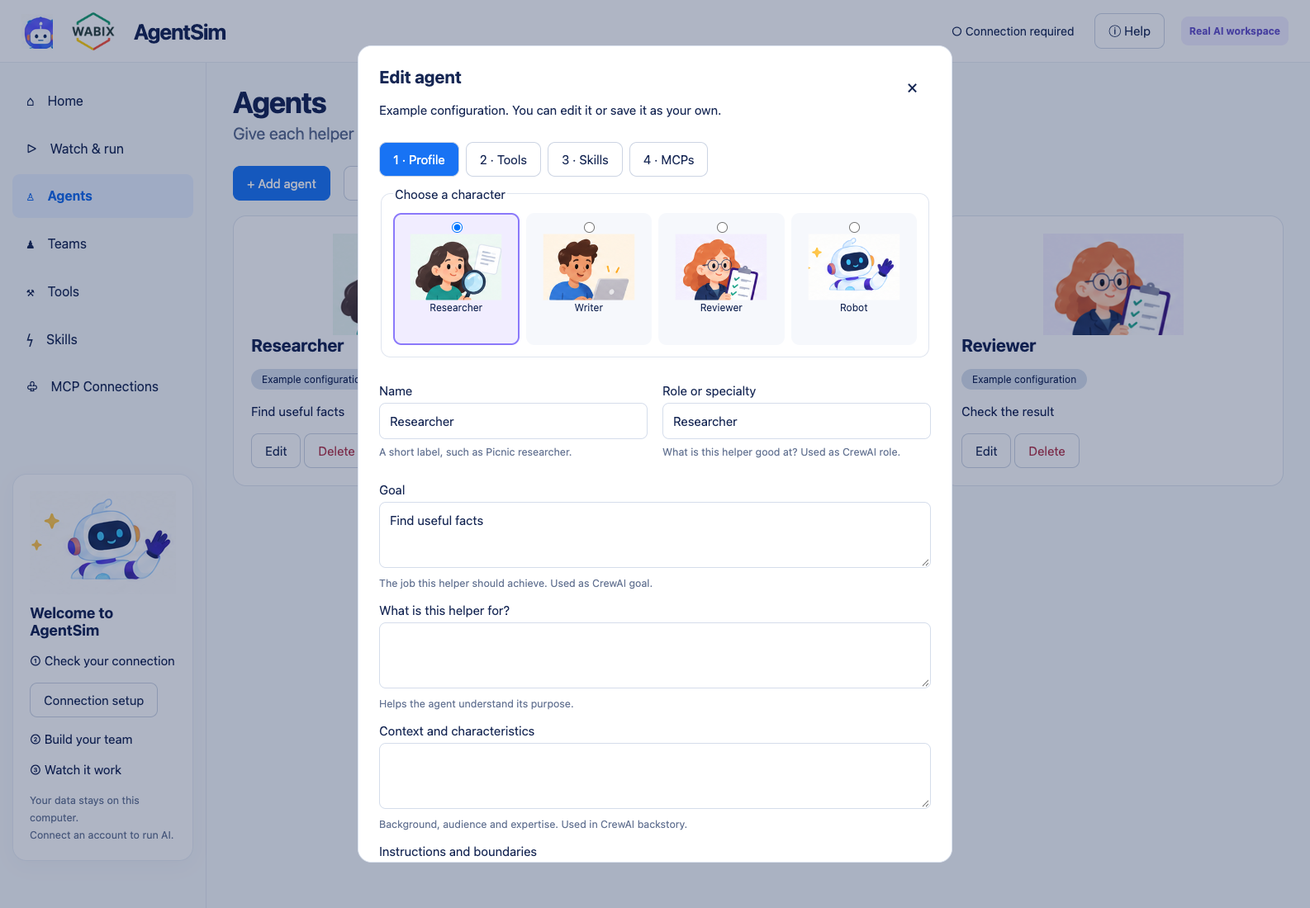
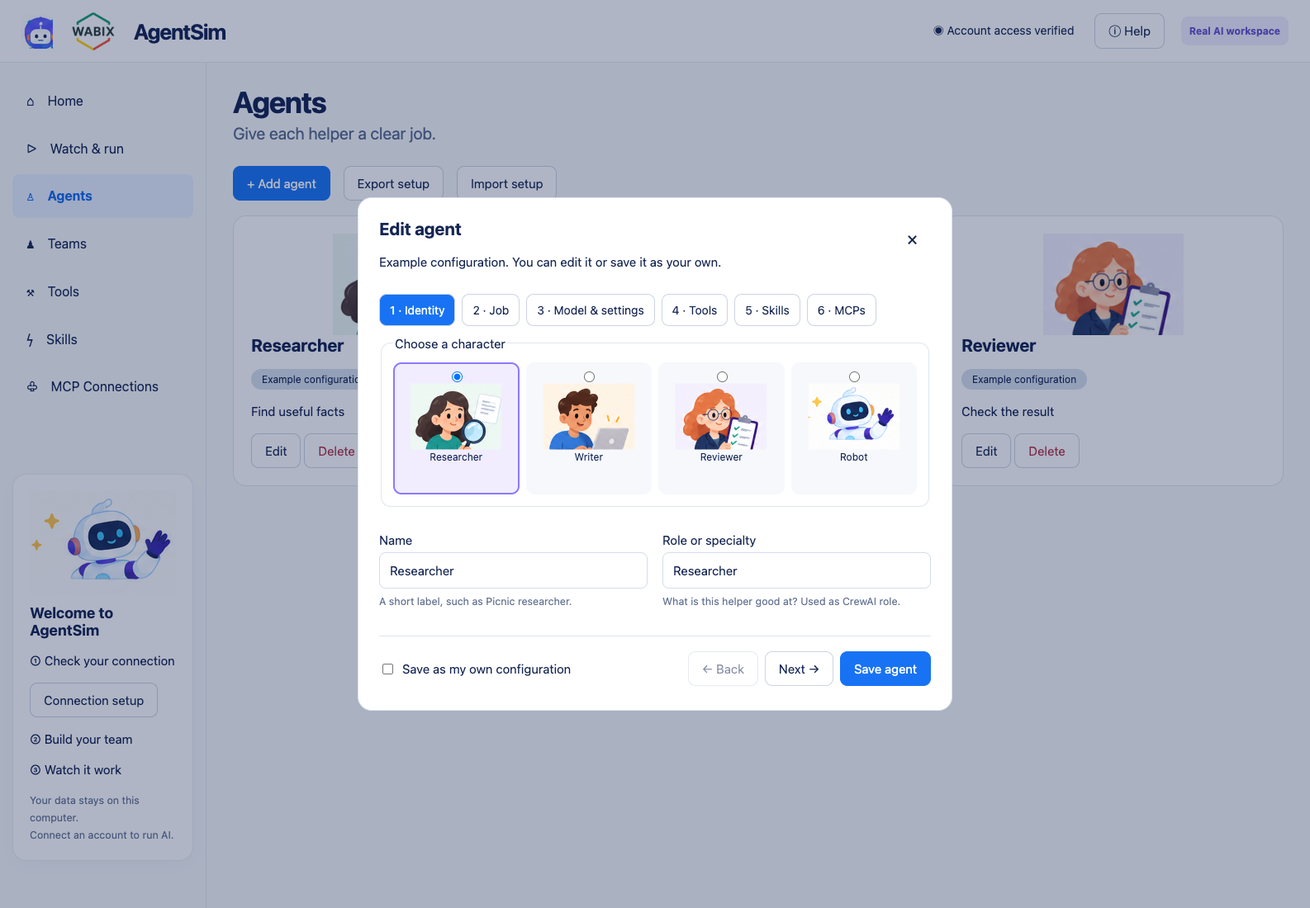
Split agent profile into guided steps and load available models in a dropdown

diff --git a/static/app.js b/static/app.js
@@ -379,10 +379,12 @@ function agentEditor(id) {
     `<label class="field">${label}${multi ? `<textarea aria-label="${label}" name="${name}" rows="3">${esc(a[name])}</textarea>` : `<input aria-label="${label}" name="${name}" value="${esc(a[name])}">`}${help ? `<small>${help}</small>` : ""}</label>`;
   modal(
     `<h2>${id ? "Edit" : "Create"} agent</h2><p>${a.example ? "Example configuration. You can edit it or save it as your own." : "Give this helper a clear identity, job and boundaries."}</p><div class="editor-tabs" role="tablist">${[
-      ["profile", "1 · Profile"],
-      ["tools", "2 · Tools"],
-      ["skills", "3 · Skills"],
-      ["mcps", "4 · MCPs"],
+      ["profile", "1 · Identity"],
+      ["job", "2 · Job"],
+      ["settings", "3 · Model & settings"],
+      ["tools", "4 · Tools"],
+      ["skills", "5 · Skills"],
+      ["mcps", "6 · MCPs"],
     ]
       .map(
         ([key, label], i) =>
@@ -390,7 +392,7 @@ function agentEditor(id) {
       )
       .join(
         "",
-      )}</div><form id="agentForm" novalidate><section id="panel-profile" role="tabpanel" aria-labelledby="tab-profile"><fieldset class="avatar-choices"><legend>Choose a character</legend>${["researcher", "writer", "reviewer", "robot"].map((v) => `<label class="avatar-choice"><input type="radio" name="avatar" value="${v}" ${(a.avatar || "robot") === v ? "checked" : ""}><span class="avatar ${avatarClass(v)}" aria-hidden="true"></span><span>${v[0].toUpperCase() + v.slice(1)}</span></label>`).join("")}</fieldset><div class="form-grid">${field("name", "Name", "A short label, such as Picnic researcher.")}${field("role", "Role or specialty", "What is this helper good at? Used as CrewAI role.")}</div>${field("goal", "Goal", "The job this helper should achieve. Used as CrewAI goal.", true)}${field("purpose", "What is this helper for?", "Helps the agent understand its purpose.", true)}${field("backstory", "Context and characteristics", "Background, audience and expertise. Used in CrewAI backstory.", true)}${field("instructions", "Instructions and boundaries", "How should it work? Be concrete. These instructions are sent with its task.", true)}${field("expectedOutput", "Expected result", "Describe the answer you want. Used as the task expected output.", true)}<section class="panel"><h3>This agent's model</h3><label class="field">Connection<select name="agentConnection" id="agentConnection"><option value="chatgpt">ChatGPT · own authorized account</option><option value="api">API · own saved provider credentials</option></select></label><label class="field">Model name<input name="modelName" value="${esc(a.model.name)}" placeholder="Choose a model for this helper"></label><button type="button" id="agentModels">Load models for this connection</button><div id="agentModelList"></div><small>Each helper keeps its own model. A blank model is allowed in a saved draft, but real execution will ask you to select one.</small></section><details><summary>Teaching examples</summary><p>Examples show a style. They are clearly marked as examples, not the current goal or verified facts.</p>${field("exampleInput", "Example input", "", true)}${field("exampleOutput", "Example answer", "", true)}</details><details><summary>Advanced: model and behavior</summary><p>Optional model parameters are sent only when set. Model selection belongs to this agent.</p><div class="form-grid"><label class="field">Temperature (optional)<input type="number" step="0.1" min="0" max="2" name="temperature" value="${a.model.temperature ?? ""}"><small>Blank leaves the provider default. Some models reject temperature; a failed request is shown, never silently changed.</small></label><label class="field">Output token limit (optional)<input type="number" min="16" max="16000" name="maxOutputTokens" value="${a.model.maxOutputTokens ?? ""}"><small>Sent as max_output_tokens only when set. Check your model's supported limits.</small></label><label class="field">CrewAI context budget<input type="number" name="contextWindow" min="4096" max="2000000" value="${a.model.contextWindow ?? 32000}"><small>Used by CrewAI to manage long conversations. Set it to your model's actual capacity; this does not enlarge the model.</small></label>${[
+      )}</div><form id="agentForm" novalidate><section id="panel-profile" role="tabpanel" aria-labelledby="tab-profile"><fieldset class="avatar-choices"><legend>Choose a character</legend>${["researcher", "writer", "reviewer", "robot"].map((v) => `<label class="avatar-choice"><input type="radio" name="avatar" value="${v}" ${(a.avatar || "robot") === v ? "checked" : ""}><span class="avatar ${avatarClass(v)}" aria-hidden="true"></span><span>${v[0].toUpperCase() + v.slice(1)}</span></label>`).join("")}</fieldset><div class="form-grid">${field("name", "Name", "A short label, such as Picnic researcher.")}${field("role", "Role or specialty", "What is this helper good at? Used as CrewAI role.")}</div></section><section id="panel-job" role="tabpanel" aria-labelledby="tab-job" hidden><h3>What should this helper do?</h3>${field("goal", "Goal", "The job this helper should achieve. Used as CrewAI goal.", true)}${field("purpose", "What is this helper for?", "Helps the agent understand its purpose.", true)}${field("backstory", "Context and characteristics", "Background, audience and expertise. Used in CrewAI backstory.", true)}${field("instructions", "Instructions and boundaries", "How should it work? Be concrete. These instructions are sent with its task.", true)}${field("expectedOutput", "Expected result", "Describe the answer you want. Used as the task expected output.", true)}</section><section id="panel-settings" role="tabpanel" aria-labelledby="tab-settings" hidden><section class="panel"><h3>This agent's model</h3><label class="field">Connection<select name="agentConnection" id="agentConnection"><option value="chatgpt">ChatGPT · own authorized account</option><option value="api">API · own saved provider credentials</option></select></label><label class="field">Model<select name="modelName" id="agentModel" aria-describedby="agentModelStatus"><option value="">Choose an available model</option>${a.model.name ? `<option value="${esc(a.model.name)}" selected>${esc(a.model.name)} · saved, availability not checked</option>` : ""}</select></label><p id="agentModelStatus" class="muted" role="status" aria-live="polite">Models load from this agent's connection when you open this step.</p><button type="button" id="agentModels">Refresh models</button><small class="model-hint">Each helper keeps its own model. A blank model is allowed in a saved draft, but real execution will ask you to select one.</small></section><details><summary>Teaching examples</summary><p>Examples show a style. They are clearly marked as examples, not the current goal or verified facts.</p>${field("exampleInput", "Example input", "", true)}${field("exampleOutput", "Example answer", "", true)}</details><details><summary>Advanced: model and behavior</summary><p>Optional model parameters are sent only when set. Model selection belongs to this agent.</p><div class="form-grid"><label class="field">Temperature (optional)<input type="number" step="0.1" min="0" max="2" name="temperature" value="${a.model.temperature ?? ""}"><small>Blank leaves the provider default. Some models reject temperature; a failed request is shown, never silently changed.</small></label><label class="field">Output token limit (optional)<input type="number" min="16" max="16000" name="maxOutputTokens" value="${a.model.maxOutputTokens ?? ""}"><small>Sent as max_output_tokens only when set. Check your model's supported limits.</small></label><label class="field">CrewAI context budget<input type="number" name="contextWindow" min="4096" max="2000000" value="${a.model.contextWindow ?? 32000}"><small>Used by CrewAI to manage long conversations. Set it to your model's actual capacity; this does not enlarge the model.</small></label>${[
       [
         "maxIterations",
         "Maximum work cycles",
@@ -448,53 +450,126 @@ function agentEditor(id) {
       )
       .join(
         "",
-      )}</section><div class="editor-footer">${a.example ? '<label class="check"><input type="checkbox" name="makeOwn">Save as my own configuration</label>' : ""}<button class="primary">Save agent</button></div></form>`,
+      )}</section><div class="editor-footer">${a.example ? '<label class="check"><input type="checkbox" name="makeOwn">Save as my own configuration</label>' : ""}<div class="editor-navigation"><button type="button" id="agentPrevious">← Back</button><button type="button" id="agentNext">Next →</button><button class="primary">Save agent</button></div></div></form>`,
   );
-  $("#agentConnection").value = a.model.connection || "chatgpt";
-  $("#agentModels").onclick = async () => {
+  const stepKeys = ["profile", "job", "settings", "tools", "skills", "mcps"];
+  let activeStep = 0,
+    modelRequest = 0;
+  const modelCache = new Map(),
+    selectedModels = new Map([
+      [a.model.connection || "chatgpt", a.model.name || ""],
+    ]);
+  const modelPicker = $("#agentModel"),
+    connectionPicker = $("#agentConnection"),
+    modelStatus = $("#agentModelStatus");
+  connectionPicker.value = a.model.connection || "chatgpt";
+  const showModels = (models, connection) => {
+    const saved = selectedModels.get(connection) || "";
+    const hasSaved = models.some((m) => m.id === saved);
+    modelPicker.innerHTML =
+      '<option value="">Choose an available model</option>' +
+      models
+        .map((m) => `<option value="${esc(m.id)}">${esc(m.name)}</option>`)
+        .join("") +
+      (!hasSaved && saved
+        ? `<option value="${esc(saved)}">${esc(saved)} · saved, not returned by this connection</option>`
+        : "");
+    modelPicker.value = saved;
+    modelStatus.textContent = models.length
+      ? `${models.length} available model${models.length === 1 ? "" : "s"} loaded from this connection.${saved && !hasSaved ? " The saved model was not returned; choose an available model before running." : ""}`
+      : "This connection returned no available models.";
+    modelStatus.className = "muted";
+  };
+  const loadModels = async (force = false) => {
+    const connection = connectionPicker.value,
+      request = ++modelRequest;
+    if (!force && modelCache.has(connection)) {
+      showModels(modelCache.get(connection), connection);
+      modelPicker.removeAttribute("aria-busy");
+      $("#agentModels").disabled = false;
+      return;
+    }
+    modelStatus.textContent = "Loading available models…";
+    modelStatus.className = "muted";
+    modelPicker.setAttribute("aria-busy", "true");
+    $("#agentModels").disabled = true;
     try {
-      const r = await api("models", {
-        connection: $("#agentConnection").value,
-      });
-      $("#agentModelList").innerHTML = r.models
-        .map(
-          (m) =>
-            `<button type="button" data-agent-model="${esc(m.id)}">${esc(m.name)}</button>`,
-        )
-        .join("");
-      document
-        .querySelectorAll("[data-agent-model]")
-        .forEach(
-          (b) =>
-            (b.onclick = () =>
-              ($('#agentForm [name="modelName"]').value =
-                b.dataset.agentModel)),
-        );
+      const response = await api("models", { connection });
+      if (request !== modelRequest || $("#agentModel") !== modelPicker) return;
+      const models = response.models.filter(
+        (m, i, all) =>
+          typeof m.id === "string" && all.findIndex((x) => x.id === m.id) === i,
+      );
+      modelCache.set(connection, models);
+      showModels(models, connection);
     } catch (e) {
-      toast(e.message);
+      if (request !== modelRequest || $("#agentModel") !== modelPicker) return;
+      const saved = selectedModels.get(connection) || "";
+      modelPicker.innerHTML =
+        '<option value="">Connect this account to load models</option>' +
+        (saved
+          ? `<option value="${esc(saved)}">${esc(saved)} · saved, availability not checked</option>`
+          : "");
+      modelPicker.value = saved;
+      modelStatus.textContent =
+        e.message +
+        (saved
+          ? " Your saved model has been kept."
+          : " Open Connection setup, then refresh this list.");
+      modelStatus.className = "danger";
+    } finally {
+      if (request === modelRequest && $("#agentModel") === modelPicker) {
+        modelPicker.removeAttribute("aria-busy");
+        $("#agentModels").disabled = false;
+      }
     }
   };
+  modelPicker.onchange = () =>
+    selectedModels.set(connectionPicker.value, modelPicker.value);
+  connectionPicker.onchange = () => {
+    const connection = connectionPicker.value,
+      saved = selectedModels.get(connection) || "";
+    modelPicker.innerHTML =
+      '<option value="">Choose an available model</option>' +
+      (saved
+        ? `<option value="${esc(saved)}">${esc(saved)} · saved, availability not checked</option>`
+        : "");
+    modelPicker.value = saved;
+    loadModels();
+  };
+  $("#agentModels").onclick = () => loadModels(true);
   const switchTab = (key) => {
+    activeStep = stepKeys.indexOf(key);
     document.querySelectorAll("[data-tab]").forEach((b) => {
       b.setAttribute("aria-selected", String(b.dataset.tab === key));
       b.tabIndex = b.dataset.tab === key ? 0 : -1;
     });
-    ["profile", "tools", "skills", "mcps"].forEach(
-      (k) => ($("#panel-" + k).hidden = k !== key),
-    );
+    stepKeys.forEach((k) => ($("#panel-" + k).hidden = k !== key));
+    $("#agentPrevious").disabled = activeStep === 0;
+    $("#agentNext").hidden = activeStep === stepKeys.length - 1;
+    if (key === "settings") loadModels();
+    $("#dialog").scrollTop = 0;
   };
   document.querySelectorAll("[data-tab]").forEach((b, i) => {
     b.onclick = () => switchTab(b.dataset.tab);
     b.onkeydown = (e) => {
       if (["ArrowRight", "ArrowLeft"].includes(e.key)) {
         e.preventDefault();
-        const keys = ["profile", "tools", "skills", "mcps"];
-        const next = keys[(i + (e.key === "ArrowRight" ? 1 : 3)) % 4];
+        const keys = stepKeys;
+        const next =
+          keys[
+            (i + (e.key === "ArrowRight" ? 1 : keys.length - 1)) % keys.length
+          ];
         switchTab(next);
         $("#tab-" + next).focus();
       }
     };
   });
+  $("#agentPrevious").onclick = () =>
+    switchTab(stepKeys[Math.max(0, activeStep - 1)]);
+  $("#agentNext").onclick = () =>
+    switchTab(stepKeys[Math.min(stepKeys.length - 1, activeStep + 1)]);
+  switchTab("profile");
   const collect = () => {
     const f = new FormData($("#agentForm"));
     const obj = {
@@ -520,7 +595,7 @@ function agentEditor(id) {
     obj.model = {
       mode: "custom",
       connection: f.get("agentConnection"),
-      name: f.get("modelName"),
+      name: modelPicker.value,
       temperature:
         f.get("temperature") === "" ? null : Number(f.get("temperature")),
       maxOutputTokens:
@@ -558,7 +633,11 @@ function agentEditor(id) {
       render();
       toast("Agent profile and permissions saved.");
     } catch (e) {
-      switchTab("profile");
+      const form = $("#agentForm");
+      if (!form.elements.name.value.trim() || !form.elements.role.value.trim())
+        switchTab("profile");
+      else if (!form.elements.goal.value.trim()) switchTab("job");
+      else switchTab("settings");
       toast(e.message);
     }
   };

diff --git a/static/style.css b/static/style.css
@@ -919,3 +919,43 @@ pre {
 .editor-tabs button {
   white-space: nowrap;
 }
+.editor-tabs {
+  overflow-x: auto;
+  flex-wrap: nowrap;
+  scrollbar-width: thin;
+}
+.editor-tabs button {
+  flex-shrink: 0;
+}
+.editor-navigation {
+  display: flex;
+  gap: 8px;
+  align-items: center;
+  flex-wrap: wrap;
+}
+.editor-footer {
+  gap: 12px;
+  flex-wrap: wrap;
+}
+#agentModel {
+  width: 100%;
+}
+#agentModelStatus {
+  font-size: 13px;
+  line-height: 1.5;
+}
+.editor-tabs button {
+  padding: 10px 12px;
+  font-size: 14px;
+}
+.model-hint {
+  display: block;
+  margin-top: 10px;
+  line-height: 1.6;
+}
+@media (max-width: 600px) {
+  .editor-tabs button {
+    font-size: 12px;
+    padding: 10px 8px;
+  }
+}

diff --git a/KnowledgeBase/STATUS.md b/KnowledgeBase/STATUS.md
@@ -5,7 +5,7 @@
 - **Home is a dashboard**, with Agents, Teams, Tools, Skills, MCP Connections and Watch & run cards, counts, a short explanation and next steps. The approved team visualization now lives in Watch & run. Existing layout, art, mascot, WABIX logo and palette are preserved.
 - **Real AI is the primary flow.** Disconnected Home automatically opens Connection setup. Backend provider access checks are required; stored keys/tokens do not imply a successful connection. A failed real run cannot fall back to samples.
 - **Automatic execution via server-sent events.** No Next clicks are required for real AI. The explicit educational sample option retains its separate deterministic lesson and clearly labeled sample counts.
-- **Four actual agent-editor tabs:** Profile, Tools, Skills, MCPs. Profile includes role, goal, context, instructions, purpose, expected result, delimited examples, per-agent model/connection and actual CrewAI behavior settings. [Runtime mapping](AGENT_PROFILES.md).
+- **Six separate agent-editor steps:** Identity (character/name/role), Job (goal through expected result), Model & settings (provider model dropdown and remaining settings), Tools, Skills, MCPs. [Runtime mapping](AGENT_PROFILES.md).
 - **Per-agent model selection** with a separate LLM adapter per helper. Heterogeneous ChatGPT/API connections and different model names are respected; global connection settings do not override agent models. Optional unsupported model parameters produce errors, never silent substitution.
 - **Selectable approved avatars** (Researcher, Writer, Reviewer, Robot) persist and render in editor, catalog and execution cards. No new unseen character asset is claimed.
 - **Persistent migration**, preserving ids, jobs→goals, team membership, existing permissions and saved runs. SQLite remains the data store. New installations are empty; examples load only after an explicit action and merge without overwriting own helpers. Original bundled configs are labeled examples.
@@ -18,7 +18,7 @@
 
 1. **Real MCP transport:** separate authenticated Streamable HTTP server process with a generated fixture credential; Bearer and custom-header discovery, actual tool calls, optional/nested schema handling, denied grants, changed revisions, edit/remove revocation and HTTP API management round-trip. Actual CrewAI calls an external fixture MCP tool using a scripted LLM. No Brain Mentoria AI credential was used.
 2. **Real application and framework path with a controlled provider:** HTTP configuration → backend access check → actual CrewAI tasks → local Responses SSE endpoint → application SSE events → persisted results. Two agents select model-alpha and model-beta; requests preserve those model choices. Completion occurs without Next actions. Fixture usage values remain test data, not live external usage.
-3. **Contract/data/UI checks:** signed OAuth identity validation, PKCE/state isolation, incomplete registration retention, profile migration/round-trip, framework field mapping, per-agent ChatGPT/API selection, declarative import/permission restrictions, arithmetic restrictions and builtin MCP stdio. Browser checks confirm disconnected setup modal, dashboard navigation, four separate tab panels and unsaved selections surviving tab switches. Screenshots are under design/.
+3. **Contract/data/UI checks:** signed OAuth identity validation, PKCE/state isolation, incomplete registration retention, profile migration/round-trip, framework field mapping, per-agent ChatGPT/API selection, declarative import/permission restrictions, arithmetic restrictions and builtin MCP stdio. Browser checks confirm disconnected setup modal, dashboard navigation, separate editor panels and unsaved selections surviving step changes. Screenshots are under design/.
 
 Python 3.12.9, macOS Apple Silicon. Ruff and JavaScript syntax checks pass. [Evidence record](evidence/verification.txt).
 
@@ -26,7 +26,7 @@ Python 3.12.9, macOS Apple Silicon. Ruff and JavaScript syntax checks pass. [Evi
 
 Reviewed the official request contract again. Fixed the invalid_grant retry edge case so an issued client id is retained as an **incomplete registration**, without claiming connection. No configuration error was found that establishes the cause of the previously observed HTTP 403 browser challenge. [Review and human verification steps](OAUTH_REVIEW.md).
 
-The automated browser received HTTP 403 before consent. No actual OpenAI consent, token exchange, refresh, account model listing or external AI inference has been completed. No own API credential was supplied. Controlled/scripted tests do not change that status. The application has no valid account at delivery and correctly requires a connection for real execution.
+The automated browser received HTTP 403 before consent. At the earlier delivery, OpenAI consent, token exchange, refresh, account model listing and external AI inference had not been confirmed. The later catalog check is recorded below. No own API credential was supplied. Controlled/scripted tests do not change that status. The application requires provider-verified access for real execution; the connection state observed in the latest UI check is recorded below.
 
 ## Remaining work
 
@@ -35,3 +35,9 @@ The automated browser received HTTP 403 before consent. No actual OpenAI consent
 - Completed runs persist. A server restart interrupts in-flight work. Local credential protection uses OS permissions, not encryption.
 
 No public deployment. Commits and push are reported in the delivery message and repository history.
+
+## Profile step refinement
+
+The original Profile step is now split into three visible panels, followed by Tools, Skills and MCPs. Back/Next and direct step navigation retain unsaved name, avatar, job and model values. Model discovery runs automatically in step 3 and on connection changes; it populates a real select control. JavaScript syntax and browser checks passed. Existing backend/runtime mappings were unchanged by this UI revision.
+
+During this verification, the existing ChatGPT connection reported provider-verified access and its model catalog returned **7 available models**. This supersedes the earlier delivery's unverified model-list status. This UI task did not perform a new sign-in, inspect credential contents, or execute external inference. No user agent data was changed by the browser checks (the editor was closed without saving).

diff --git a/KnowledgeBase/AGENT_PROFILES.md b/KnowledgeBase/AGENT_PROFILES.md
@@ -1,6 +1,6 @@
 # Agent profile schema and real framework mapping
 
-Profiles have four actual editor tabs: **Profile**, **Tools**, **Skills**, **MCPs**. Only the selected panel is visible; switching tabs preserves unsaved inputs. Import setup and Export setup remain in Agents/Teams.
+The editor has six separate steps: **1 Identity** (character, name, role), **2 Job** (goal through expected result), **3 Model & settings** (connection, model dropdown, examples and advanced settings), then **4 Tools**, **5 Skills**, **6 MCPs**. Only the selected panel is visible; switching tabs preserves unsaved inputs. Import setup and Export setup remain in Agents/Teams.
 
 `profiles.py` validates and migrates every legacy agent in place. Old `job` becomes `goal`; `job` remains a synchronized compatibility alias. Existing ids, memberships, permissions, saved runs and user text are preserved. The expanded profile is stored in the existing SQLite database. New installations start empty; loading examples is an explicit merge, not a reset. Original bundled helper definitions are labeled Example configuration. That label describes the configuration source, not proof that an AI request has run.
 
@@ -29,3 +29,5 @@ Profiles have four actual editor tabs: **Profile**, **Tools**, **Skills**, **MCP
 Model selection is per agent. Draft profiles can be saved with an empty model name, but real execution is blocked until each selected helper has a model and its chosen connection passes a provider access check. A legacy shared model, when present, is copied into each legacy profile once during migration; later global changes cannot override agent models. Different agents can use different models and different ChatGPT/API connections in the same sequential crew.
 
 Profile preview displays user-configured inputs, without credentials. CrewAI adds its own framework/task instructions; the preview does not claim to show hidden model reasoning or every framework-generated token. There are no new magician illustrations in this release: the selector uses only approved, existing artwork.
+
+Model lists load automatically when step 3 opens and when its connection changes. The dropdown contains models returned by the existing provider catalog endpoint, not a hardcoded list. Refresh models reloads it. Unsaved selections survive step changes. A saved model absent from a returned catalog is explicitly labeled; failed discovery keeps a saved value without presenting it as verified availability. Back/Next move between configuration steps; real execution still progresses automatically.

diff --git a/KnowledgeBase/REQUIREMENTS.md b/KnowledgeBase/REQUIREMENTS.md
@@ -16,8 +16,10 @@ Never reuse private Cortex code, Codex credentials or Cortex secrets. Only its p
 
 Home must be the entry dashboard/report with counts and explanatory cards, not the execution canvas. Move the approved canvas to explicit Watch & run. Keep Import setup / Export setup. Clearly identify example configurations and persistent SQLite data; do not auto-seed or reset user data.
 
-Agent editing requires four actual tabs: Profile, Tools, Skills, MCPs. Expand the profile to framework-backed role, goal, context, instructions, purpose, input/output examples, expected result and advanced model/behavior options. Persist/migrate it and show a configuration preview. Let the user choose among approved character portraits and render the saved choice consistently.
+Agent editing requires separate profile, Tools, Skills and MCP sections; the latest refinement below splits profile into three smaller steps. Expand the profile to framework-backed role, goal, context, instructions, purpose, input/output examples, expected result and advanced model/behavior options. Persist/migrate it and show a configuration preview. Let the user choose among approved character portraits and render the saved choice consistently.
 
 Real AI is the primary experience; disconnected Home must automatically open Connection setup. Account validity is checked by the backend. Real work advances through streamed events without Next clicks. Samples are a deliberate secondary educational option and never a fallback. Connection and model belong to each agent, supporting heterogeneous teams. Shared global settings are for credentials rather than model overrides.
 
 External HTTP MCP configuration and use are in scope: registry management, authentication, discovery, granular grants, schema-validated calls, clear errors, local secrets and controlled-endpoint verification, independent of OAuth access limits. No Brain Mentoria AI credential is authorized for the controlled tests.
+
+Latest profile navigation refinement: split the original step 1 into Identity (character, name and role), Job (remaining fields through Expected result), and Model & settings (available-model dropdown and remaining configuration). Keep Tools, Skills and MCPs as following separate steps. Populate the model dropdown from the selected connection automatically.

diff --git a/README.md b/README.md
@@ -30,12 +30,16 @@ Open **http://127.0.0.1:8080**. Use `PORT=8081 ./start.sh` to change ports. The 
 
 When Home opens with no provider-verified connection, Connection setup opens automatically. A saved token/key is not presented as successful access: the backend checks the provider's models endpoint. Dismissing the dialog still allows configuration; real execution remains blocked until access is verified.
 
-**Agents** has Import setup / Export setup and a four-tab editor:
+**Agents** has Import setup / Export setup and six separate editor steps:
 
-1. **Profile** — character, name, role, goal, purpose, context, instructions, expected result, delimited teaching examples, **this agent's connection and model**, and explained advanced settings.
-2. **Tools** — explicit tool permissions.
-3. **Skills** — instruction packages; dependencies never grant tools silently.
-4. **MCPs** — each connection's individual discovered tools.
+1. **Identity** — choose a character, name and role.
+2. **Job** — goal, purpose, context, instructions and expected result.
+3. **Model & settings** — this agent's connection, automatically loaded model dropdown, teaching examples and advanced behavior/model settings.
+4. **Tools** — explicit tool permissions.
+5. **Skills** — instruction packages; dependencies never grant tools silently.
+6. **MCPs** — each connection's individual discovered tools.
+
+Back/Next preserve unsaved entries. Models reload when the selected connection changes; a failed lookup never invents available models.
 
 The approved Researcher, Writer, Reviewer and Robot characters are selectable and persisted. Profile fields and behavior settings map to actual CrewAI configuration, not decorative metadata. [Mapping and schema](KnowledgeBase/AGENT_PROFILES.md).
 
